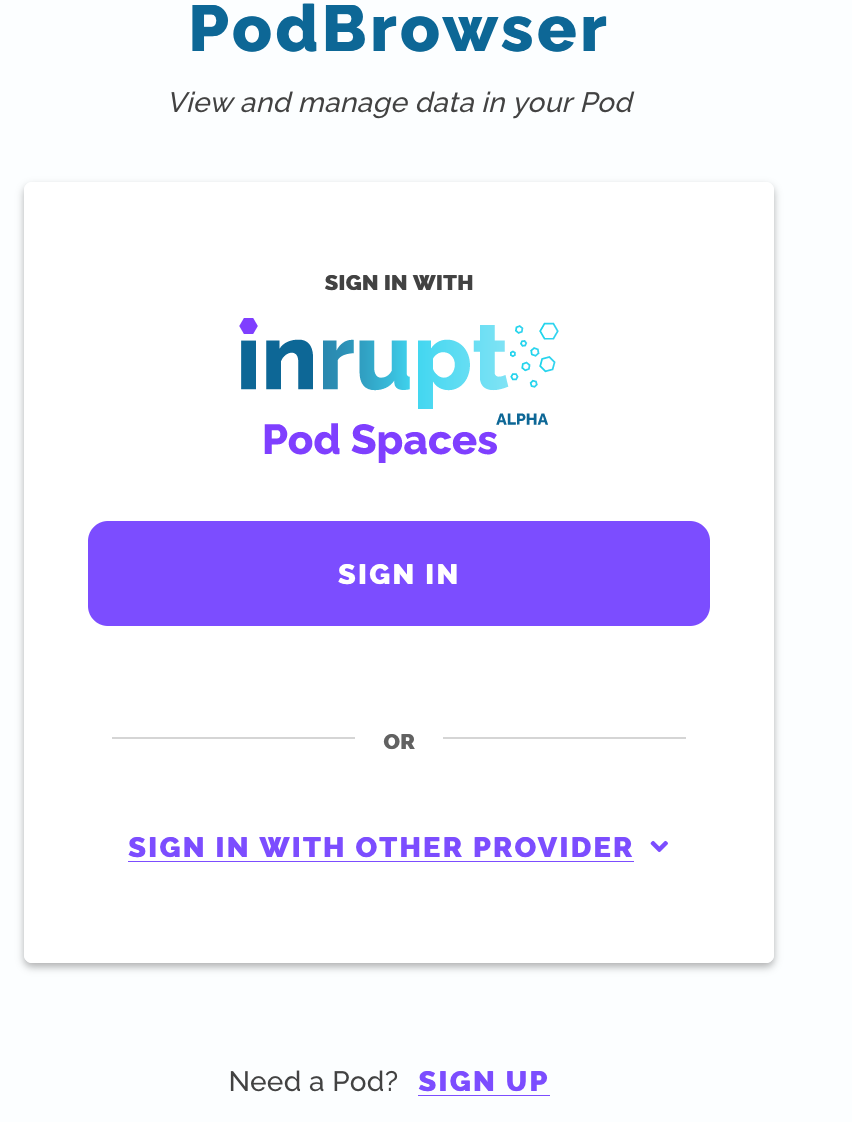
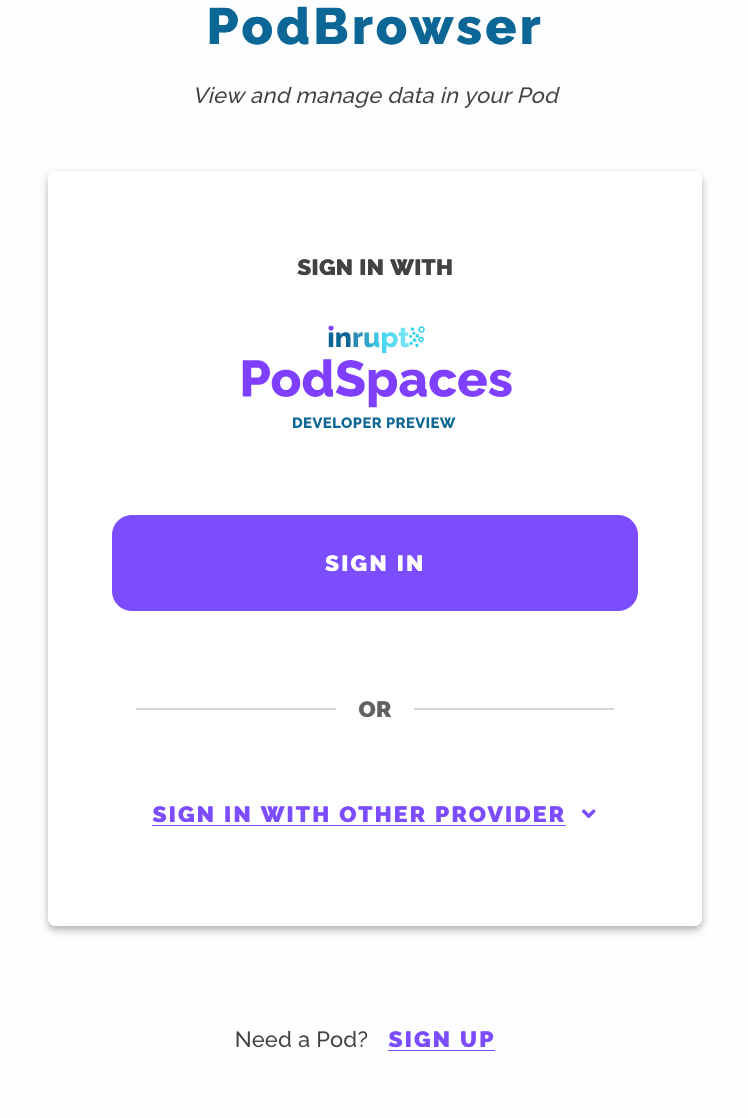
podspaces 2.0 migration

diff --git a/source/login.rst b/source/login.rst
@@ -28,10 +28,6 @@ Example
 
 To sign into `Inrupt PodSpaces <https://docs.inrupt.com/pod-spaces>`_:
 
-.. note::
-
-   PodSpaces currently uses version 1.1 of ESS.
-
 #. Click :guilabel:`Sign In`.
 
 #. Enter your :guilabel:`Username` and :guilabel:`Password` and :guilabel:`Sign In`.
